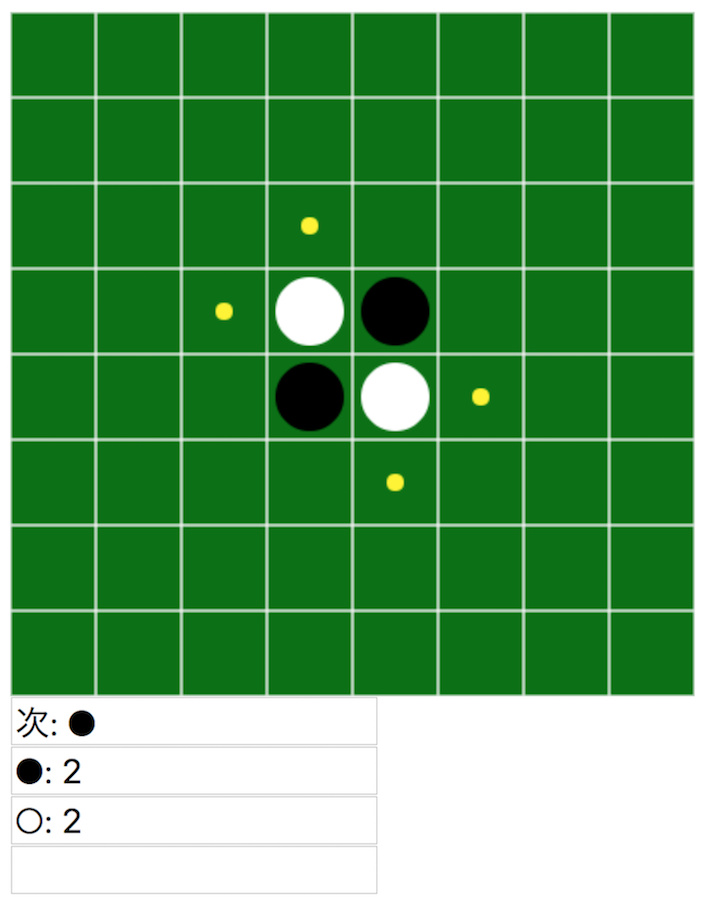
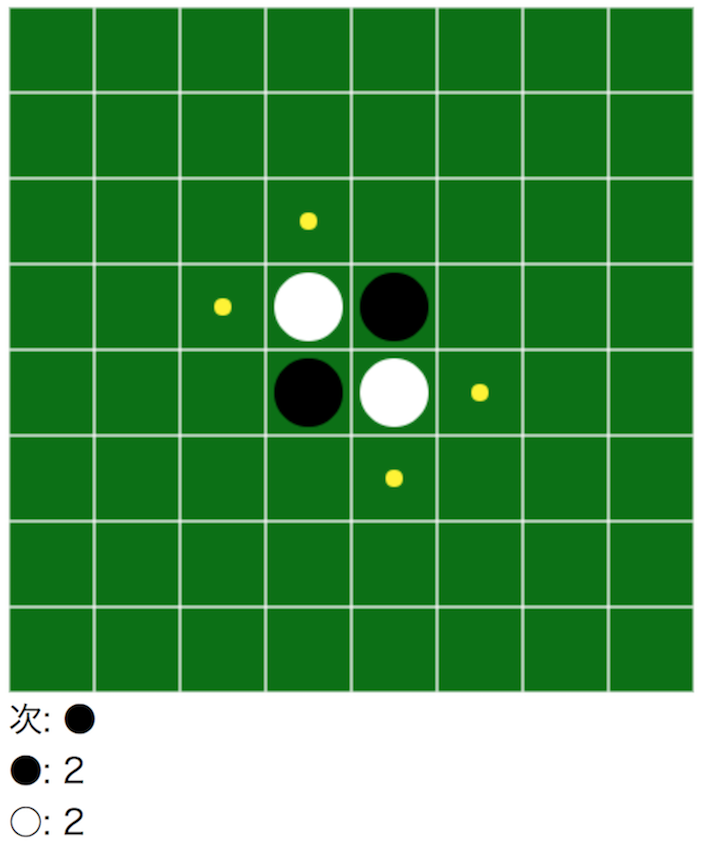
change text type

Changed region(s): [[0.0, 0.0, 1.0, 1.0], [0.5093, 0.9209, 0.5392, 0.9516], [0.5093, 0.8595, 0.5392, 0.8902]]

diff --git a/JS/render.js b/JS/render.js
@@ -54,10 +54,10 @@ function render(){
   st.canput = HowManyCanPut();
   st.black = HowMany(1);
   st.white = HowMany(-1);
-  document.getElementById("turn").value = "次: " + txt_turn[(st.turn+1)/2];
-  document.getElementById("black").value = "●: " + st.black;
-  document.getElementById("white").value = "○: " + st.white;
-  document.getElementById("end").value = ""
+  document.getElementById("turn").innerText = "次: " + txt_turn[(st.turn+1)/2];
+  document.getElementById("black").innerText = "●: " + st.black;
+  document.getElementById("white").innerText = "○: " + st.white;
+  document.getElementById("end").innerText = ""
 }
 
 function drawBoard(){

diff --git a/JS/rule.js b/JS/rule.js
@@ -13,18 +13,18 @@ canvas.onclick = function(e) {
     st.turn *= -1;
     render();
     if (st.canput == 0){
-      document.getElementById("end").value = WhichWin();
+      document.getElementById("end").innerText = WhichWin();
     }else{
-      document.getElementById("end").value = "Pass!";
+      document.getElementById("end").innerText = "Pass!";
     }
   }
 }
 function WhichWin(){
   var comment = ""
   if (st.black > st.white){
-    comment = "Winner:Black";
+    comment = "Winner: Black";
   }else if (st.black < st.white){
-    comment = "Winner:White";
+    comment = "Winner: White";
   }else {
     comment = "Draw!";
   }

diff --git a/index.html b/index.html
@@ -10,9 +10,13 @@
   <script type="text/javascript" src="./JS/render.js"></script>
   <script type="text/javascript" src="./JS/rule.js"></script>
   <br>
-  <input type="text" id="turn" /><br>
+  <div id = "turn"></div>
+  <div id = "black"></div>
+  <div id = "white"></div>
+  <div id = "end"></div>
+    <!-- <input type="text" id="turn" /><br>
   <input type="text" id="black" /><br>
   <input type="text" id="white" /><br>
-  <input type="text" id="end" />
+  <input type="text" id="end" /> -->
 </body>
 </html>

diff --git a/css/othello.css b/css/othello.css
@@ -7,18 +7,18 @@ body {
   float: left;
 }
 #turn {
-  float: left;
+  /* float: left; */
   font-size: 20px;
 }
 #black {
-  float: left;
+  /* float: left; */
   font-size: 20px;
 }
 #white {
-  float: left;
+  /* float: left; */
   font-size: 20px;
 }
 #end {
-  float: left;
+  /* float: left; */
   font-size: 20px;
 }
